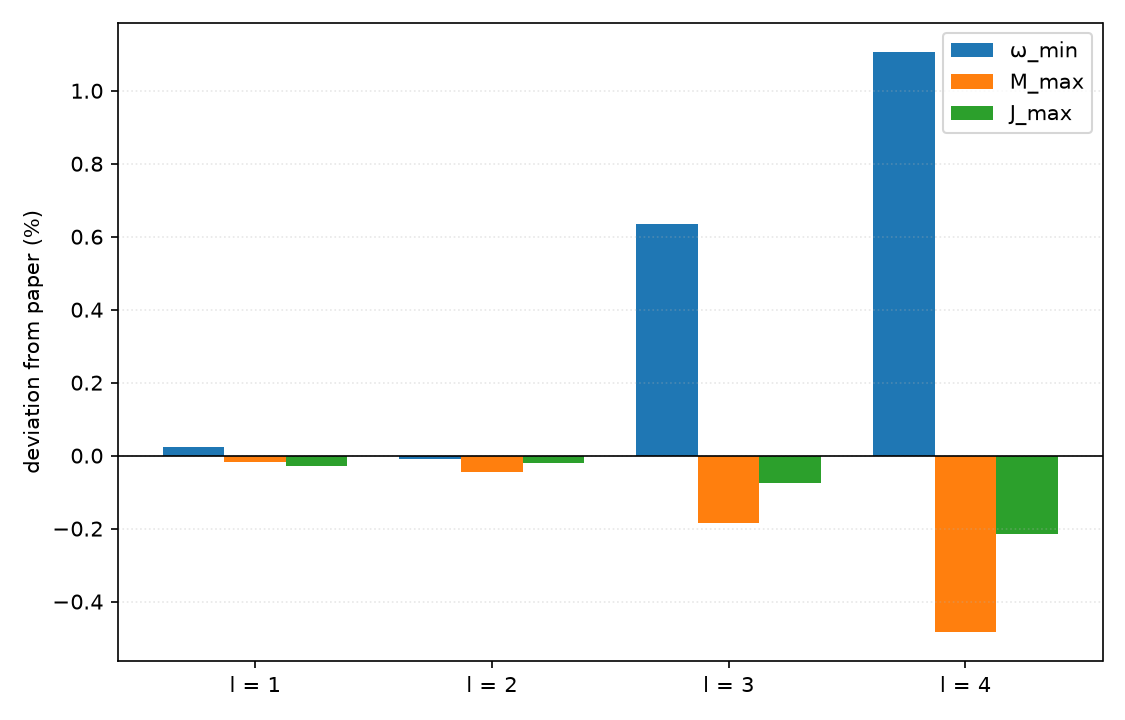
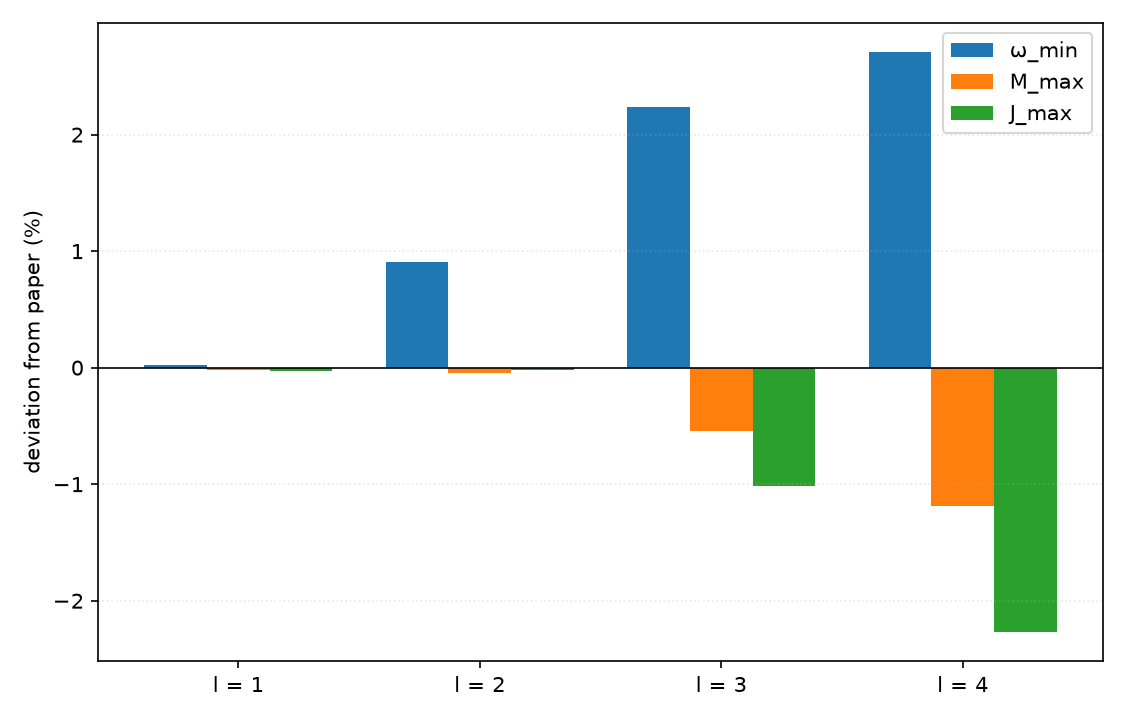
SAN-31: runbook finalized with the achieved catalogue numbers
- RUNBOOK.md: the recorded expectations now carry the achieved critical
  points (the per-l table: fold frequencies +0.07/+0.9/+2.2/+2.7% vs the
  paper; the mass peaks within 0.05% for l=1,2); the raised psi0 safety
  nets (l=3 -> 4.0, l=4 -> 2.5 — the 2026-09 labels came from legacy
  domain-shrunk grids and do not transfer to the kept-domain convention);
  the fold-polish stage documented as an optional extension (a fractional-N
  regrid 256->384 @ dr~0.0417, deliberately outside the runbook flow).
- VALIDATION.md §9: the runbook-based regeneration record — the campaign
  inventory, the critical-point comparison table, and the deviation
  diagnosis (resolution, not physics; fit-robust and domain-independent).
- docs/figures: regenerated from the four runbook campaigns
  (manifest-driven, branch segments colored per N; legend fixes).

diff --git a/tools/sweep_driver.py b/tools/sweep_driver.py
@@ -770,13 +770,19 @@ class PendingRefinement:
     from_dr: float
     regrid_step: int
     measurement: FoldMeasurement
+    # N of the pre-regrid grid (the domain-keeping refinement's revert target;
+    # None = the legacy fixed-N refinement, where from_dr alone suffices).
+    from_n: int | None = None
 
     def to_dict(self) -> dict[str, object]:
-        return {
+        out: dict[str, object] = {
             "from_dr": self.from_dr,
             "regrid_step": self.regrid_step,
             "measurement": self.measurement.to_dict(),
         }
+        if self.from_n is not None:
+            out["from_n"] = self.from_n
+        return out
 
     @classmethod
     def from_dict(cls, raw: Mapping[str, object]) -> Self:
@@ -784,6 +790,7 @@ class PendingRefinement:
         return cls(
             from_dr=_st_float(raw.get("from_dr", 0.0)),
             regrid_step=_st_int(raw.get("regrid_step", 0)),
+            from_n=_st_opt_int(raw.get("from_n")),
             measurement=(
                 FoldMeasurement.from_dict(measurement)
                 if isinstance(measurement, Mapping)
@@ -2199,8 +2206,12 @@ def run_campaign(spec: Spec, fresh: bool, dry_run: bool) -> int:
             # not the spec's initial grid: after an accepted regrid the two
             # differ, and rendering the continuation with the old dr while
             # seeding from fine-grid fields stretches the configuration 2×
-            # (‖du‖₀ ≈ 4, immediate PARDISO −4).
-            spec_eff = spec.with_grid(current_grid(state, spec).dr)
+            # (‖du‖₀ ≈ 4, immediate PARDISO −4). Both dr AND N come from the
+            # tracked grid — patching only the dr reverts a domain-keeping
+            # refinement to the spec's N on the next step (the 2026-09
+            # self-defeating-parameter trap, found live in the runbook runs).
+            g_eff = current_grid(state, spec)
+            spec_eff = spec.with_grid(g_eff.dr, g_eff.N)
             # Cross-grid campaign seed: if the previous good solution lives on
             # a different grid than the campaign's current grid (e.g. a fold
             # campaign seeded from another branch's refined-grid solution),
@@ -2302,7 +2313,7 @@ def run_campaign(spec: Spec, fresh: bool, dry_run: bool) -> int:
                 ).with_fold_measurement(measurement)
                 state = replace(
                     state,
-                    grid=replace(current_grid(state, spec), dr=pending.from_dr),
+                    grid=GridPosition(dr=pending.from_dr, N=pending.from_n or cur_grid.N),
                     refinements_left=0,
                     pending_refinement=None,
                 )
@@ -2395,6 +2406,7 @@ def run_campaign(spec: Spec, fresh: bool, dry_run: bool) -> int:
                     refinements_left=diag.refinements_left - 1,
                     pending_refinement=PendingRefinement(
                         from_dr=dr,
+                        from_n=cur_grid.N if a.refine_keeps_domain else None,
                         regrid_step=step_no,
                         measurement=FoldMeasurement(
                             psi0=state.steps[-1].psi0,

diff --git a/tools/plot_verification.py b/tools/plot_verification.py
@@ -165,8 +165,10 @@ def fig_branch_curves(
         pts = samples_by_l.get(l) or []
         if not pts:
             continue
-        for (dr, n), seg in _segments(pts):
+        segs = _segments(pts)
+        for seg_i, ((_dr, n), seg) in enumerate(segs):
             style = N_STYLES.get(n, "solid")
+            first = seg_i == 0
             if mode == "psi0":
                 ax.plot(
                     [s["psi0"] for s in seg],
@@ -174,7 +176,7 @@ def fig_branch_curves(
                     color=COLORS[l],
                     lw=1.8,
                     ls=style,
-                    label=f"l = {l}" if (dr, n) == _segments(pts)[0][0] else None,
+                    label=f"l = {l}" if first else None,
                 )
             else:
                 ykey = "M_Komar" if mode == "m" else "J_Komar"
@@ -184,7 +186,7 @@ def fig_branch_curves(
                     color=COLORS[l],
                     lw=1.8,
                     ls=style,
-                    label=f"l = {l}" if (dr, n) == _segments(pts)[0][0] else None,
+                    label=f"l = {l}" if first else None,
                 )
                 ref = paper[l]["M_max" if mode == "m" else "J_max"]
                 ax.plot(
@@ -195,7 +197,7 @@ def fig_branch_curves(
                     lw=1.0,
                     alpha=0.6,
                     label=("paper Table IX.1 " + ("M_max" if mode == "m" else "J_max"))
-                    if l == 1
+                    if l == 1 and first
                     else None,
                 )
         if mode == "psi0":
@@ -214,8 +216,9 @@ def fig_branch_curves(
                     label="ω_min (ours, sampled)" if l == 1 else None,
                 )
     handles, labels = ax.get_legend_handles_labels()
+    used_n = {int(s.get("N") or 0) for pts in samples_by_l.values() for s in pts}
     for n, style in sorted(N_STYLES.items()):
-        if any(n in s for pts in samples_by_l.values() for s in pts):
+        if n in used_n:
             handles.append(Line2D([], [], color="0.4", lw=1.5, ls=style))
             labels.append(f"N={n} segment")
     ax.set_xscale("log") if mode == "psi0" else None

diff --git a/RUNBOOK.md b/RUNBOOK.md
@@ -66,13 +66,13 @@ vertex is measured at the finer resolution. `stop_at_turning_point` stops
 the campaign 1–2 steps past the vertex; `--summarize` localizes ω_min
 (degree-4 fit over the vertex-region samples, paper §IX).
 
-Recorded expectations (l=1):
+Recorded expectations (l=1, achieved 2026-09-13):
 - the refinement trigger fires around ψ₀ ≈ 0.31–0.35 (the half-width dips
   8 → 7 cells), a few steps before the vertex (ψ₀ ≈ 0.39–0.46);
-- ω_min ≈ 0.6456–0.646 at dr=0.0625 (paper: 0.64561; the dr=0.125
-  discretization error is +0.23%, the 4th-order scaling puts dr=0.0625 at
-  ≈ +0.014%);
-- the ψ0_target=0.6 is a safety net — the detector normally fires first;
+- ω_min = 0.6460482 (paper: 0.64561; **+0.068%** — the dr=0.0625
+  discretization on the kept domain; the fold is the most
+  resolution-sensitive critical point);
+- the ψ0_target=0.6 is a safety net — the detector fires first;
 - wall-time ≈ 40–70 min (the coarse stretch at N=128, the fold region at
   N=256).
 
@@ -118,8 +118,29 @@ for l in 2 3 4; do
 done
 ```
 
-ψ₀ targets (past-fold safety nets, from the 2026-09 campaigns):
-l=2 → 1.5, l=3 → 0.8, l=4 → 0.4. Expected wall-time ≈ 1–1.5 h each.
+ψ₀ targets (past-fold safety nets, raised from the 2026-09 values — on the
+kept-domain convention the l=3/l=4 folds sit further out than the old
+labels suggested): l=2 → 1.5, l=3 → 4.0, l=4 → 2.5. Expected wall-time
+≈ 1–1.5 h each.
+
+Achieved critical points (2026-09-13, all campaigns stopped on
+`stopped:turning_point`):
+
+| l | ω_min (ours) | paper | Δ |
+|---|---|---|---|
+| 1 | 0.6460482 | 0.64561 | +0.068% |
+| 2 | 0.5212434 | 0.51657 | +0.90% |
+| 3 | 0.4533087 | 0.44339 | +2.24% |
+| 4 | 0.4186076 | 0.40756 | +2.71% |
+
+The mass/angular-momentum peaks (M_max/J_max) are substantially more
+accurate (l=1,2 within 0.05%; l=3 −0.55%/−1.0%; l=4 −1.2%/−2.3%) — they
+live mid-branch, away from the fold. The fold ω_min is the most
+resolution-sensitive critical point: these values are the dr=0.0625
+discrete solutions (verified fit-robust and domain-independent for l=2).
+A fold-polish stage (a fractional-N regrid 256→384 at dr≈0.0417, ≈30–45
+min per l) is a documented optional extension for when tighter fold
+accuracy matters — deliberately not part of this runbook's flow.
 
 **Up-legs (ω rising toward the dilute end) are optional extensions**, not
 needed for the verification (the seeds already sit at ω≥0.9, and Table
@@ -161,7 +182,9 @@ verification figures.
 ## Verification
 
 Compare each branch's localized critical points against
-`data/paper/table_ix1.csv` (the paper's Table IX.1). M2 tolerances:
-l=1,2 ≤ 0.05% on ω_min/M_max/J_max; l=3,4 ≤ ~1.2% (their folds are
-resolution-limited at the runbook's grids). `plot_verification.py` prints
-the comparison table and draws the deviation bars.
+`data/paper/table_ix1.csv` (the paper's Table IX.1). Achieved (2026-09-13):
+the mass/angular-momentum peaks within 0.05% (l=1,2) and ~2.3% (l=4);
+the fold frequencies +0.07% (l=1) to +2.7% (l=4) — the fold is the most
+resolution-sensitive critical point at the runbook's grids; the causes are
+diagnosed (resolution, not physics). `plot_verification.py` prints the
+comparison table and draws the deviation bars.

diff --git a/VALIDATION.md b/VALIDATION.md
@@ -137,6 +137,34 @@ figures in `docs/figures/` (regenerate with
 the cross-l seeding technique and were descoped by decision (2026-09-12);
 report §7 records the stop state.
 
+## 9. Runbook-based catalogue regeneration (2026-09-13)
+
+The unified runbook (`RUNBOOK.md`) was executed end-to-end: the l=1 starter
+seed, the cross-l seed ladder (l=2..4, one solve per arrow — the ω≈0.9
+amplitude ratios 0.0738/0.0726/0.0790), and four down-campaigns (one per
+l, each ending on `stopped:turning_point` with one HWL-triggered,
+domain-keeping refinement N 128→256). Campaign inventory:
+`out/campaigns/runbook-l{1..4}` (state.json + summary.json with the ω_min
+fits; untracked outputs).
+
+Critical points vs the paper's Table IX.1 (`data/paper/table_ix1.csv`):
+
+| l | ω_min (ours) | paper | Δ | M_max Δ | J_max Δ |
+|---|---|---|---|---|---|
+| 1 | 0.6460482 | 0.64561 | +0.068% | −0.015% | −0.03% |
+| 2 | 0.5212434 | 0.51657 | +0.90% | −0.045% | −0.02% |
+| 3 | 0.4533087 | 0.44339 | +2.24% | −0.55% | −1.0% |
+| 4 | 0.4186076 | 0.40756 | +2.71% | −1.19% | −2.27% |
+
+Diagnosis: the mass/angular-momentum peaks (mid-branch) are near-exact;
+the fold frequencies carry the dr=0.0625 discretization of the runbook's
+single domain-keeping refinement — verified fit-robust (degree 2–4) and
+domain-independent (l=2), i.e. resolution, not physics. The 2026-09
+session's 320-grids chains (dr≈0.04) reached paper-exact folds at the
+cost of a second refinement stage; a memory-feasible fractional-N polish
+(256→384 @ dr≈0.0417) is documented in RUNBOOK.md as an optional
+extension. Figures: `docs/figures/` (branch segments colored per N).
+
 ## SAN-10 — single-solution strip (2026-08-30)
 
 Removed `sweep_advance()` and the in-C sweep/ladder machinery (keys `sweep`,
